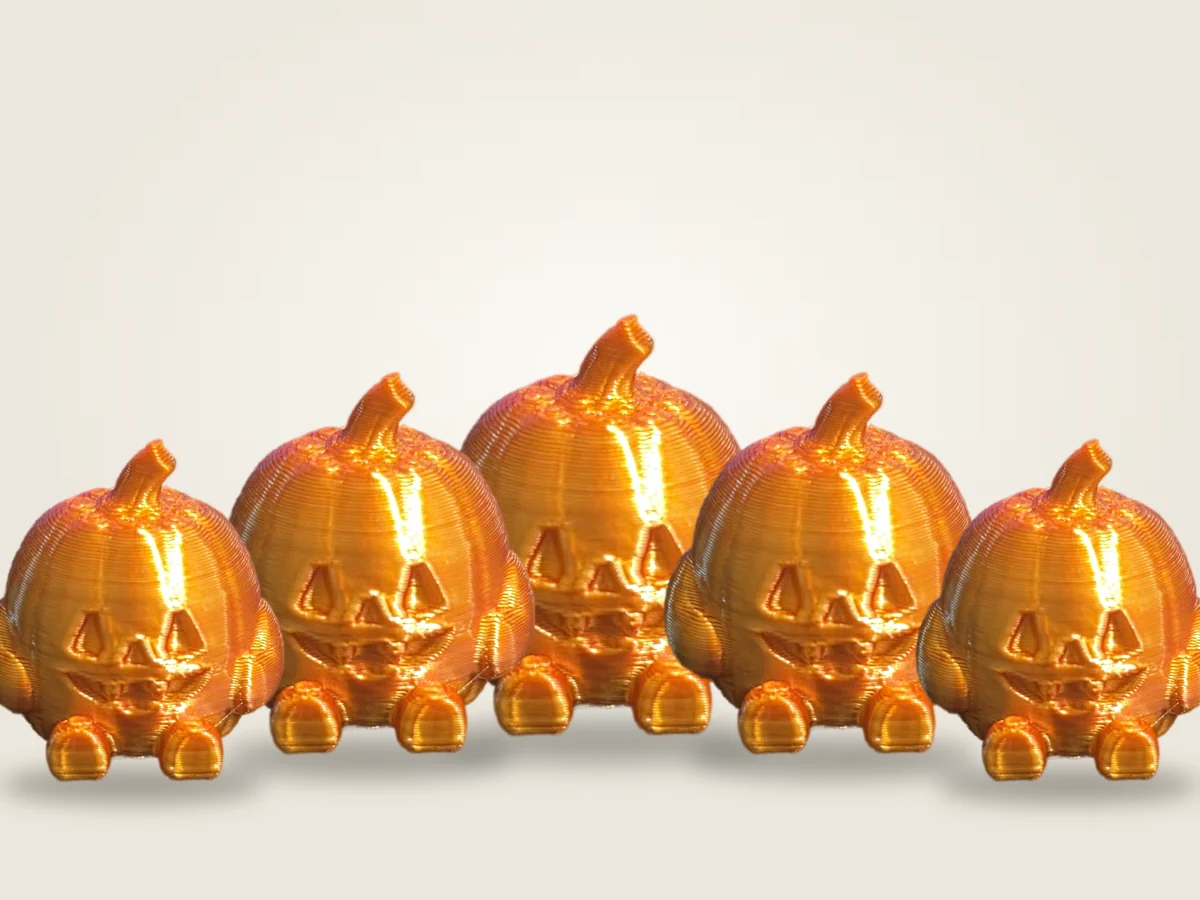
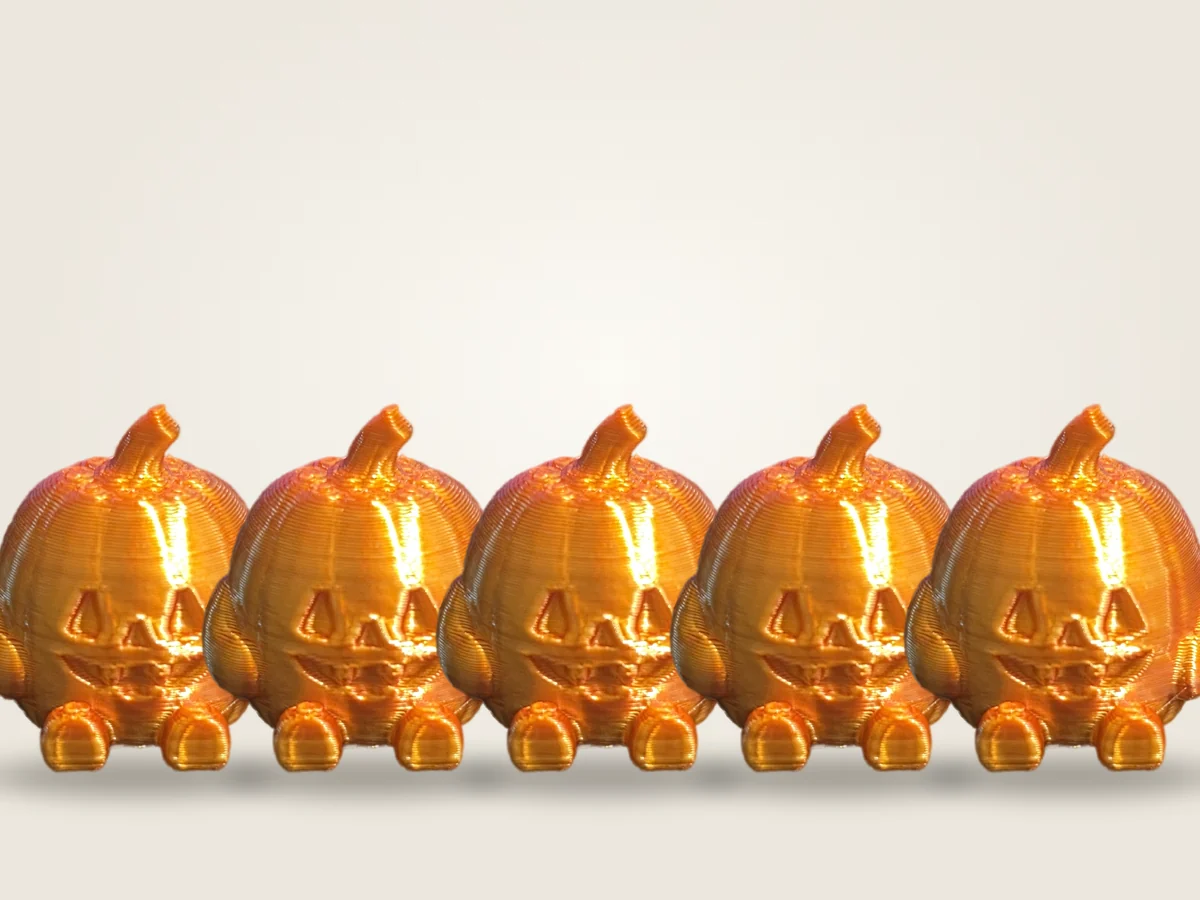
Set-Bilder: alle Kürbisse gleich groß in einer Reihe
Claude-Session: https://claude.ai/code/session_018Xfzwb6KbTVowz2tw62EGx

Changed region(s): [[0.0, 0.3422, 1.0, 0.9022]]

diff --git a/build/produkte.py b/build/produkte.py
@@ -34,13 +34,13 @@ PRODUKTE = [
          lang="Drei der kleinen Kürbisse im Set, jeder mit geschnitztem Gesicht und Stiel, in einem Stück gedruckt. Das Silk-Filament schimmert metallisch im Licht. Zu dritt wirken sie auf der Fensterbank oder zwischen Kerzen wie eine kleine Parade. Spart gegenüber drei Einzelkürbissen. Nicht als Kinderspielzeug unter 3 Jahren geeignet.",
          masse="je ca. 3,5 cm hoch", material="PLA+ Silk (glänzend)", gewicht="ca. 18 g",
          farben=["orange-silk"], tags=["neu"], foto=True, foto_quelle="kuerbis-mini",
-         anordnung=[(0.24, 0.86, 0.74), (0.50, 0.82, 0.80), (0.76, 0.86, 0.74)]),
+         anordnung=[(0.22, 0.86, 0.76), (0.50, 0.86, 0.76), (0.78, 0.86, 0.76)]),
     dict(id="kuerbis-5er-set", name="Kürbis-Parade, 5er-Set", kat="wohnen", preis=4.49,
          kurz="Fünf kleine Kürbisse mit Gesicht für die ganze Fensterbank. Günstigster Preis pro Stück.",
          lang="Fünf kleine Kürbisse mit geschnitztem Gesicht im Set, aus glänzendem Silk-PLA, jeder in einem Stück gedruckt. Reicht für eine komplette Fensterbank, den Herbsttisch oder als kleine Geschenke für Kollegen und Nachbarn. Im Set der günstigste Preis pro Kürbis. Nicht als Kinderspielzeug unter 3 Jahren geeignet.",
          masse="je ca. 3,5 cm hoch", material="PLA+ Silk (glänzend)", gewicht="ca. 30 g",
          farben=["orange-silk"], tags=["neu", "bestseller"], foto=True, foto_quelle="kuerbis-mini",
-         anordnung=[(0.11, 0.87, 0.52), (0.305, 0.84, 0.58), (0.50, 0.82, 0.64), (0.695, 0.84, 0.58), (0.89, 0.87, 0.52)]),
+         anordnung=[(0.11, 0.86, 0.56), (0.305, 0.86, 0.56), (0.50, 0.86, 0.56), (0.695, 0.86, 0.56), (0.89, 0.86, 0.56)]),
     dict(id="pflanztopf-terra", name="Pflanztopf „Terra“ 12 cm", kat="garten", preis=14.90,
          kurz="Geometrischer Übertopf mit Facettenschliff und Ablaufloch, passend für 12-cm-Töpfe.",
          lang="Der Übertopf „Terra“ bringt klare Kanten auf die Fensterbank. Die Facetten fangen das Licht, innen passt jeder handelsübliche 12-cm-Kunststofftopf. Ein Ablaufloch samt Untersetzer ist dabei, Staunässe hat keine Chance. Gedruckt aus pflanzenbasiertem PLA mit 0,2 mm Schichthöhe und nachbearbeiteter Oberfläche.",
